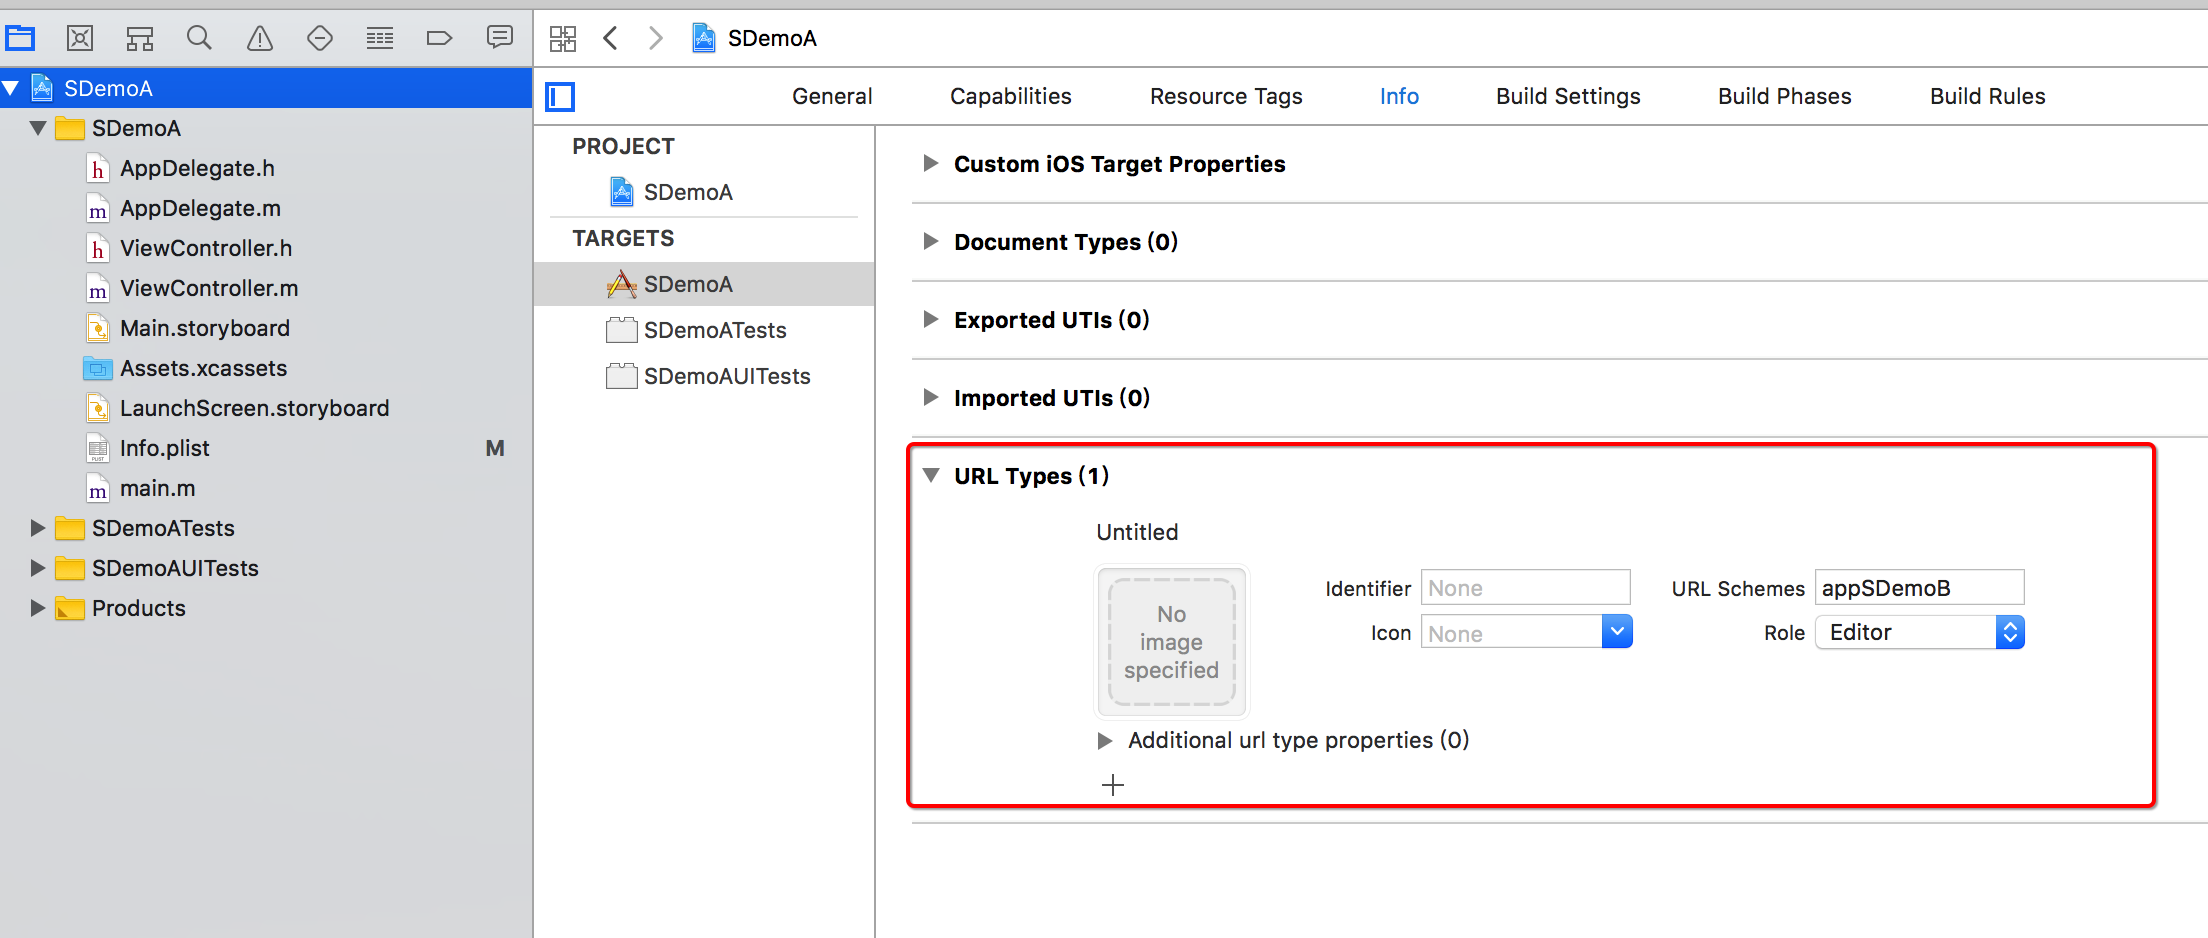
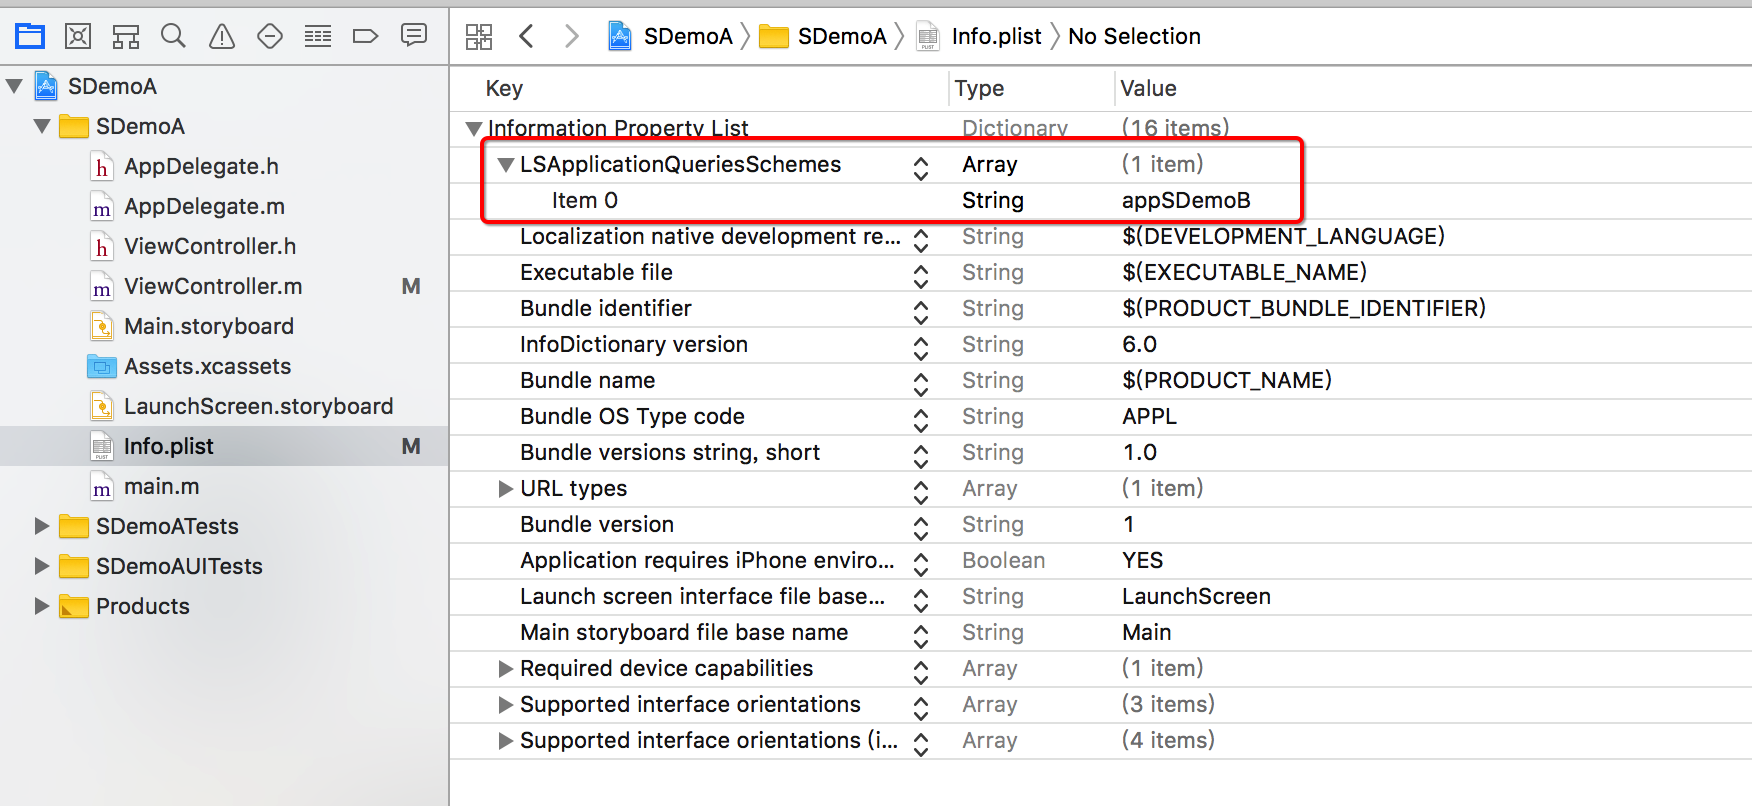
URL schemes 笔记整理

Changed region(s): [[0.0, 0.0, 1.0, 0.9615], [0.2158, 0.9615, 0.2774, 1.0]]

diff --git a/Web打开APP/README.md b/Web打开APP/README.md
@@ -1,28 +1,27 @@
 ### URL Schemes
 
+> 笔记修改更新于 20190815 ；系统和API 均在更新，测试于iPhone XR ios 12
+
 * URL Schemes是苹果给出的用来跳转到系统应用或者跳转到别人的应用的一种机制。同时还可以在应用之间传数据。
 
 * 这里演示 SDemoA 打开 SDemoB
 
-> 为使其他 APP 可以打开 SDemoB ，SDemoB 需做如下配置 （作如下配置之后会修改 工程的 .plist 文件）
+> 为使其他 APP 可以打开 SDemoB ，SDemoB 需做如下配置 （作如下配置之后会修改 工程的 .plist 文件），即配置 URL schemes
 
   ![image](https://github.com/itwyhuaing/OC-WYH/blob/master/Web打开APP/image/SDemoB配置_1.png)
 
 
-> SDemoA 若要打开 SDemoB ，SDemoA 的工程需做如下两步配置。
-
->> 1. URL Types 配置 （作如下配置之后会修改 工程的 .plist 文件）
+> SDemoA 若要打开 SDemoB ，SDemoA 的工程需做如下配置;即将 SDemoB 已配置的 URL schemes 标识添加到工程的白名单（LSApplicationQueriesSchemes）中。
 
 ![image](https://github.com/itwyhuaing/OC-WYH/blob/master/Web打开APP/image/SDemoA配置_2.png)
-
->> 2. 工程配置白名单 LSApplicationQueriesSchemes
-
-![image](https://github.com/itwyhuaing/OC-WYH/blob/master/Web打开APP/image/SDemoA配置_3.png)
 
 
 > A、B工程代码部分
 
 ![image](https://github.com/itwyhuaing/OC-WYH/blob/master/Web打开APP/image/SDemoA与B代码配置_4.png)
+
+
+### Universal Links
 
 
 ##### 参考
